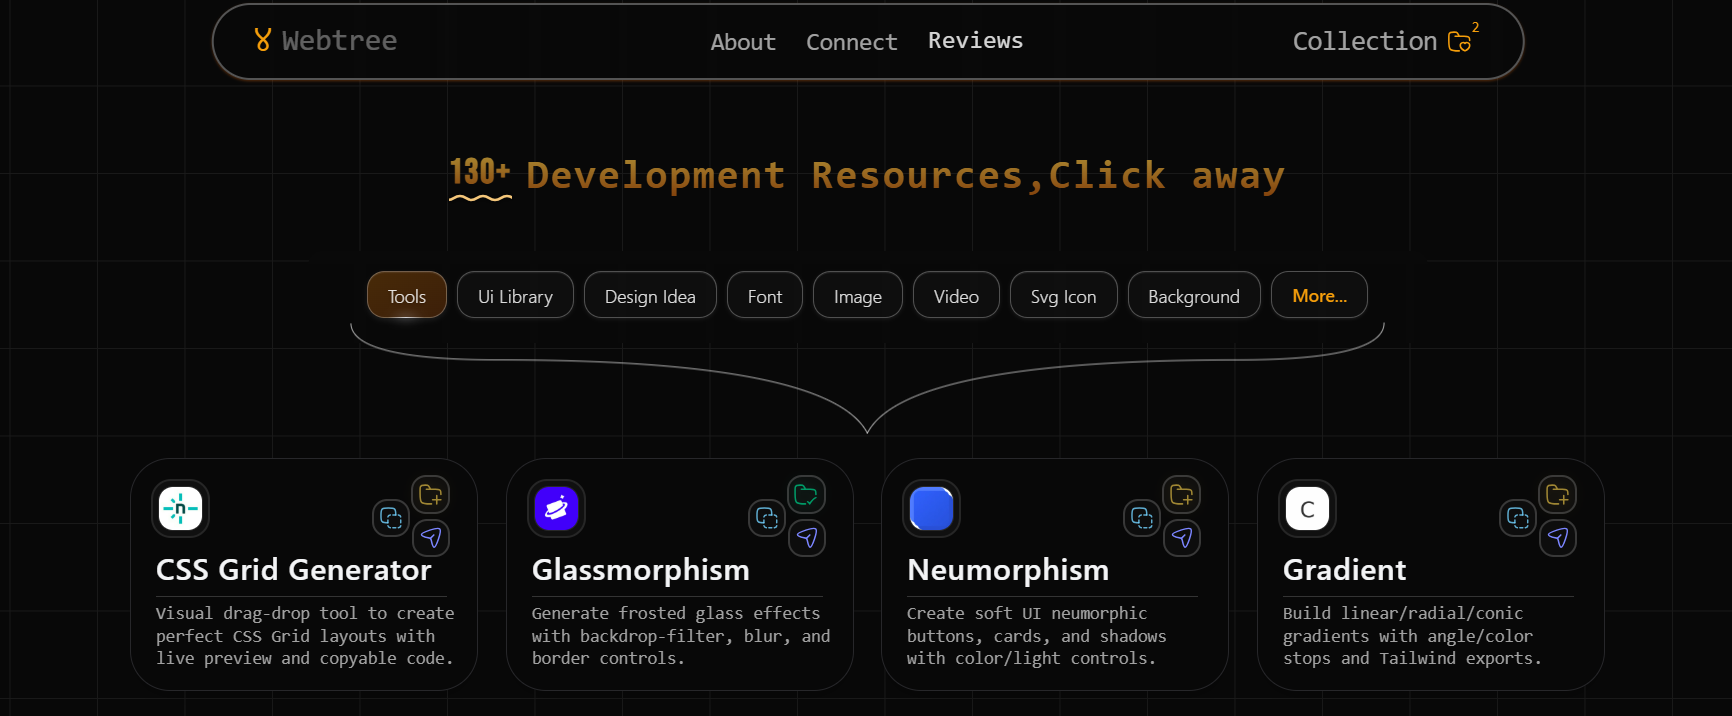
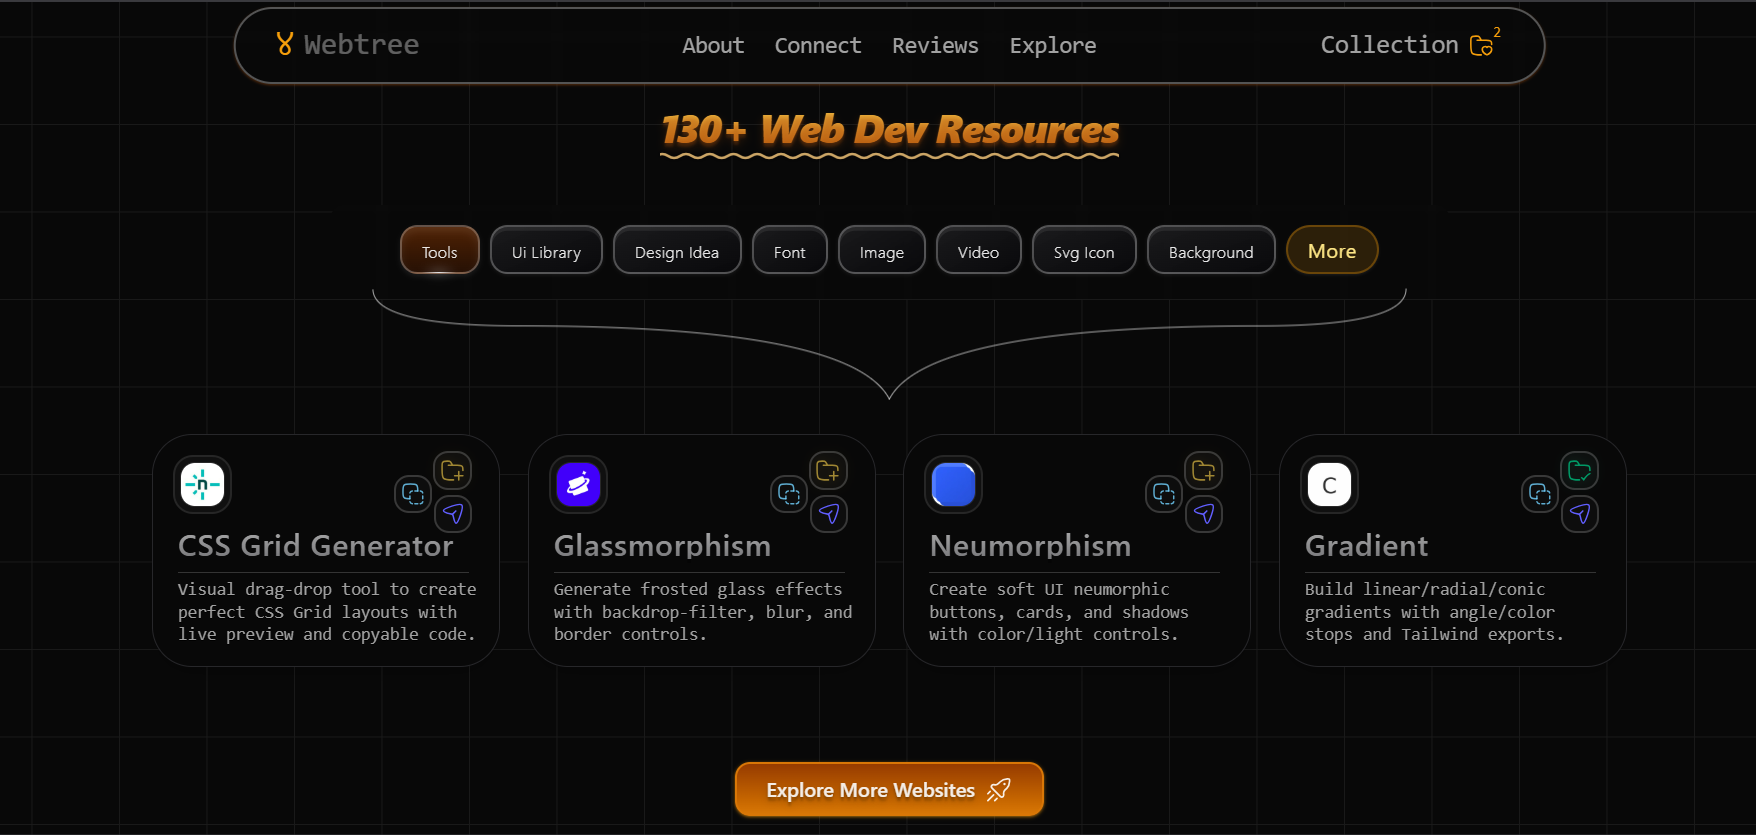
sitemap, JSON-LD update

diff --git a/index.html b/index.html
@@ -93,7 +93,9 @@
             "sameAs": [
               "https://twitter.com/ShaniDevelops",
               "https://github.com/shani-tiwari",
-              "https://linkedin.com/in/theshanitiwari"
+              "https://linkedin.com/in/theshanitiwari",
+              "https://instagram.com/shani.develops"
+
             ]
           },
           {
@@ -106,7 +108,9 @@
             "sameAs": [
               "https://github.com/shani-tiwari",
               "https://linkedin.com/in/theshanitiwari",
-              "https://twitter.com/ShaniDevelops"
+              "https://twitter.com/ShaniDevelops",
+              "https://instagram.com/shani.develops"
+
             ],
             "worksFor": { "@id": "https://webtree.shaniweb.com/#organization" }
           },
